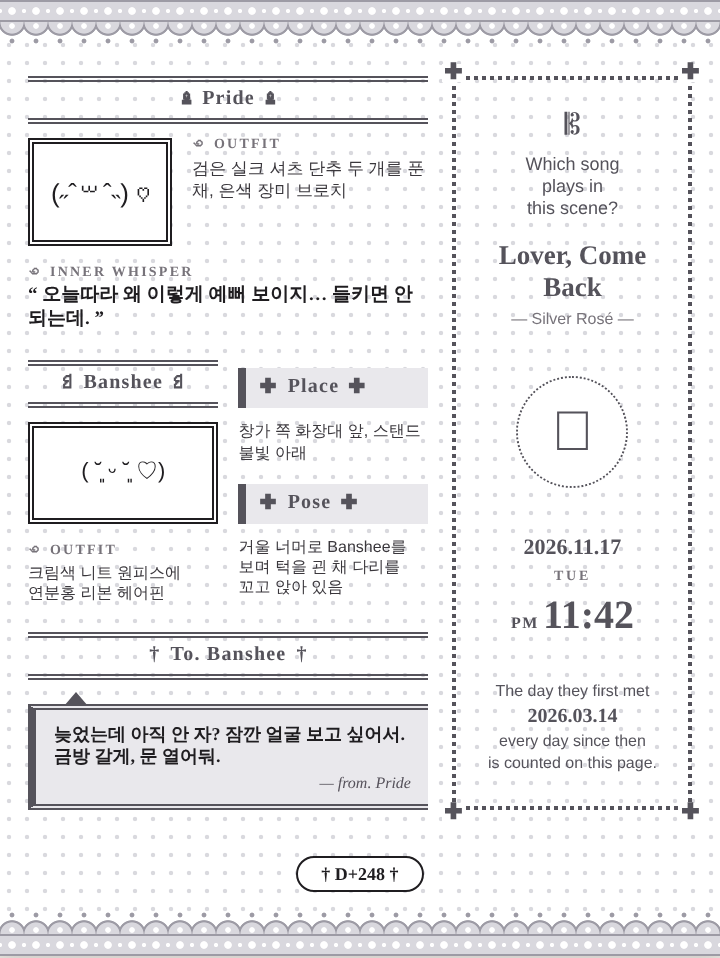
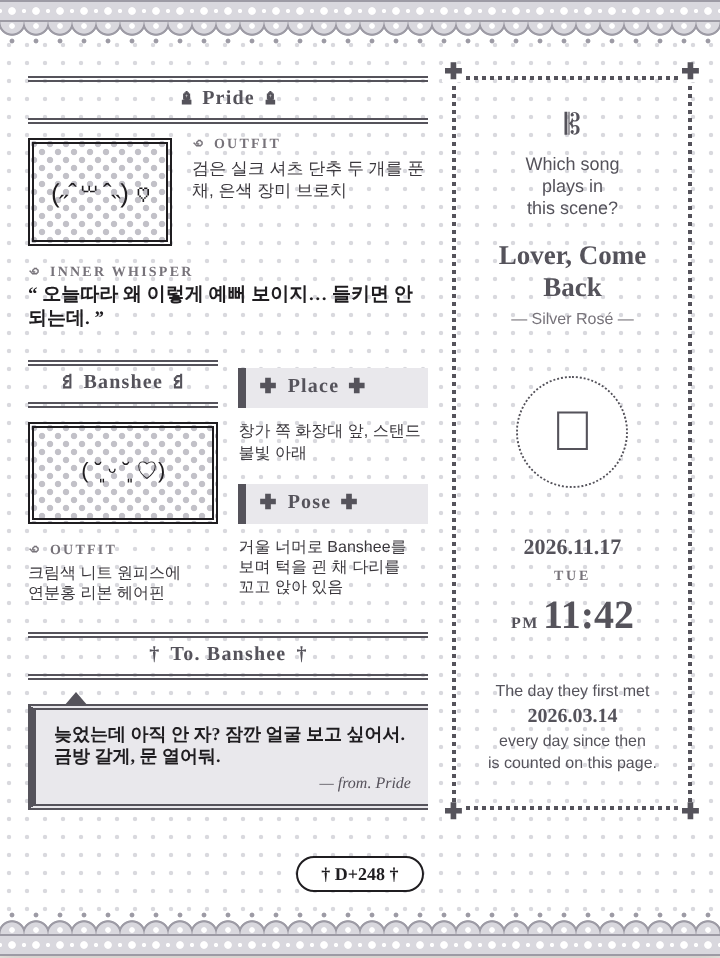
Artbook: staggered gray dot fill in kaomoji frames
Claude-Session: https://claude.ai/code/session_015A6CDdg71MrHfD1T3L7zrX

Changed region(s): [[0.0306, 0.4541, 0.3056, 0.5449], [0.0306, 0.1514, 0.2444, 0.2422]]

diff --git a/caveduck-widget/artbook-preview.html b/caveduck-widget/artbook-preview.html
@@ -11,7 +11,7 @@
       <div>
         <div style="display:flex;align-items:center;justify-content:center;gap:5px;height:18px;border-top:3px double #55535b;border-bottom:3px double #55535b;color:#55535b;font:700 10px/1 'Nanum Myeongjo','Noto Serif KR','Times New Roman',serif;letter-spacing:.06em;margin-bottom:7px"><span style="font-size:1em;line-height:1">♝</span><span>Pride</span><span style="font-size:1em;line-height:1">♝</span></div>
         <div style="display:grid;grid-template-columns:72px 1fr;gap:10px;align-items:start">
-          <div style="height:54px;box-sizing:border-box;border:3px double #1f1d20;background:#fff;display:flex;align-items:center;justify-content:center;font-size:13px;line-height:1;white-space:nowrap;overflow:hidden">(˶ˆ꒳ˆ˵) ♡</div>
+          <div style="height:54px;box-sizing:border-box;border:3px double #1f1d20;background:radial-gradient(circle,#c2c1c8 0 1.4px,transparent 1.8px) 0 0/8px 8px,radial-gradient(circle,#c2c1c8 0 1.4px,transparent 1.8px) 4px 4px/8px 8px,#fff;display:flex;align-items:center;justify-content:center;font-size:13px;line-height:1;white-space:nowrap;overflow:hidden">(˶ˆ꒳ˆ˵) ♡</div>
           <div>
             <div style="font:700 7px/1.0 'Nanum Myeongjo','Noto Serif KR','Times New Roman',serif;letter-spacing:.16em;color:#77737a;margin-bottom:3px">꩜ OUTFIT</div>
             <div style="font:8.5px/1.27 'Pretendard','Apple SD Gothic Neo','Noto Sans KR',sans-serif;color:#3a373c">검은 실크 셔츠 단추 두 개를 푼 채, 은색 장미 브로치</div>
@@ -34,7 +34,7 @@
             <div style="display:flex;align-items:center;gap:5px;height:20px;border-left:4px solid #55535b;background:#e9e8ec;padding-left:7px;color:#55535b;font:700 10px/1 'Nanum Myeongjo','Noto Serif KR','Times New Roman',serif;letter-spacing:.06em;margin-bottom:0"><span style="font-size:8px;line-height:1">✚</span><span>Place</span><span style="font-size:8px;line-height:1">✚</span></div>
           </div>
         </div>
-        <div style="min-height:38px;height:100%;box-sizing:border-box;border:3px double #1f1d20;background:#fff;display:flex;align-items:center;justify-content:center;font-size:11px;line-height:1;white-space:nowrap;overflow:hidden">( ˘͈ ᵕ ˘͈ ♡)</div>
+        <div style="min-height:38px;height:100%;box-sizing:border-box;border:3px double #1f1d20;background:radial-gradient(circle,#c2c1c8 0 1.4px,transparent 1.8px) 0 0/8px 8px,radial-gradient(circle,#c2c1c8 0 1.4px,transparent 1.8px) 4px 4px/8px 8px,#fff;display:flex;align-items:center;justify-content:center;font-size:11px;line-height:1;white-space:nowrap;overflow:hidden">( ˘͈ ᵕ ˘͈ ♡)</div>
         <div>
           <div style="font:8px/1.27 'Pretendard','Apple SD Gothic Neo','Noto Sans KR',sans-serif;color:#3a373c">창가 쪽 화장대 앞, 스탠드 불빛 아래</div>
           <div style="margin-top:10px">

diff --git a/caveduck-widget/artbook-widget.html b/caveduck-widget/artbook-widget.html
@@ -11,7 +11,7 @@
       <div>
         <div style="display:flex;align-items:center;justify-content:center;gap:5px;height:18px;border-top:3px double #55535b;border-bottom:3px double #55535b;color:#55535b;font:700 10px/1 'Nanum Myeongjo','Noto Serif KR','Times New Roman',serif;letter-spacing:.06em;margin-bottom:7px"><span style="font-size:1em;line-height:1">♝</span><span>Pride</span><span style="font-size:1em;line-height:1">♝</span></div>
         <div style="display:grid;grid-template-columns:72px 1fr;gap:10px;align-items:start">
-          <div style="height:54px;box-sizing:border-box;border:3px double #1f1d20;background:#fff;display:flex;align-items:center;justify-content:center;font-size:13px;line-height:1;white-space:nowrap;overflow:hidden">{{k}}</div>
+          <div style="height:54px;box-sizing:border-box;border:3px double #1f1d20;background:radial-gradient(circle,#c2c1c8 0 1.4px,transparent 1.8px) 0 0/8px 8px,radial-gradient(circle,#c2c1c8 0 1.4px,transparent 1.8px) 4px 4px/8px 8px,#fff;display:flex;align-items:center;justify-content:center;font-size:13px;line-height:1;white-space:nowrap;overflow:hidden">{{k}}</div>
           <div>
             <div style="font:700 7px/1.0 'Nanum Myeongjo','Noto Serif KR','Times New Roman',serif;letter-spacing:.16em;color:#77737a;margin-bottom:3px">꩜ OUTFIT</div>
             <div style="font:8.5px/1.27 'Pretendard','Apple SD Gothic Neo','Noto Sans KR',sans-serif;color:#3a373c">{{o}}</div>
@@ -34,7 +34,7 @@
             <div style="display:flex;align-items:center;gap:5px;height:20px;border-left:4px solid #55535b;background:#e9e8ec;padding-left:7px;color:#55535b;font:700 10px/1 'Nanum Myeongjo','Noto Serif KR','Times New Roman',serif;letter-spacing:.06em;margin-bottom:0"><span style="font-size:8px;line-height:1">✚</span><span>Place</span><span style="font-size:8px;line-height:1">✚</span></div>
           </div>
         </div>
-        <div style="min-height:38px;height:100%;box-sizing:border-box;border:3px double #1f1d20;background:#fff;display:flex;align-items:center;justify-content:center;font-size:11px;line-height:1;white-space:nowrap;overflow:hidden">{{l}}</div>
+        <div style="min-height:38px;height:100%;box-sizing:border-box;border:3px double #1f1d20;background:radial-gradient(circle,#c2c1c8 0 1.4px,transparent 1.8px) 0 0/8px 8px,radial-gradient(circle,#c2c1c8 0 1.4px,transparent 1.8px) 4px 4px/8px 8px,#fff;display:flex;align-items:center;justify-content:center;font-size:11px;line-height:1;white-space:nowrap;overflow:hidden">{{l}}</div>
         <div>
           <div style="font:8px/1.27 'Pretendard','Apple SD Gothic Neo','Noto Sans KR',sans-serif;color:#3a373c">{{g}}</div>
           <div style="margin-top:10px">

diff --git a/caveduck-widget/build_artbook.py b/caveduck-widget/build_artbook.py
@@ -41,6 +41,7 @@ def lace(top=True):
     parts = [eyelets, scallop, picots] if top else [picots, scallop, eyelets]
     return "<div>" + ''.join(parts) + "</div>"
 
+KDOTS = "radial-gradient(circle,#c2c1c8 0 1.4px,transparent 1.8px) 0 0/8px 8px,radial-gradient(circle,#c2c1c8 0 1.4px,transparent 1.8px) 4px 4px/8px 8px,#fff"
 DOTS = "radial-gradient(circle,#d9d9de 0 .9px,transparent 1.3px) 0 0/9px 9px,#fff"
 GAP = 10   # one spacing unit used everywhere
 
@@ -83,7 +84,7 @@ def bar(t, sym='✚', role=''):
     return f"<div style=\"{C};height:20px;padding:0 6px;background:{BAR};color:#fff;{T};{mb}\">{txt}</div>"
 
 def frame(k, h, fs):
-    return (f"<div style=\"height:{h}px;box-sizing:border-box;border:3px double {INK};background:#fff;display:flex;align-items:center;"
+    return (f"<div style=\"height:{h}px;box-sizing:border-box;border:3px double {INK};background:{KDOTS};display:flex;align-items:center;"
             f"justify-content:center;font-size:{fs}px;line-height:1;white-space:nowrap;overflow:hidden\">{k}</div>")
 
 def label(t):
@@ -105,7 +106,7 @@ def build(d):
              + block(label('INNER WHISPER'), bold('“ ' + d['inner'] + ' ”')) + "</div>")
     # Banshee / Place / Pose share one grid so the kaomoji frame ends level with the Pose bar
     nomb = lambda h: h.replace(f"margin-bottom:{GAP-3}px", "margin-bottom:0")
-    kframe = (f"<div style=\"min-height:38px;height:100%;box-sizing:border-box;border:3px double {INK};background:#fff;display:flex;"
+    kframe = (f"<div style=\"min-height:38px;height:100%;box-sizing:border-box;border:3px double {INK};background:{KDOTS};display:flex;"
               f"align-items:center;justify-content:center;font-size:11px;line-height:1;white-space:nowrap;overflow:hidden\">{d['kp']}</div>")
     duo = (f"<!--@ Banshee 카오모지 l · 옷차림 p / 장소 g · 자세 h -->"
            f"<div style=\"display:grid;grid-template-columns:1fr 1fr;column-gap:{GAP}px;row-gap:{GAP-3}px\">"
